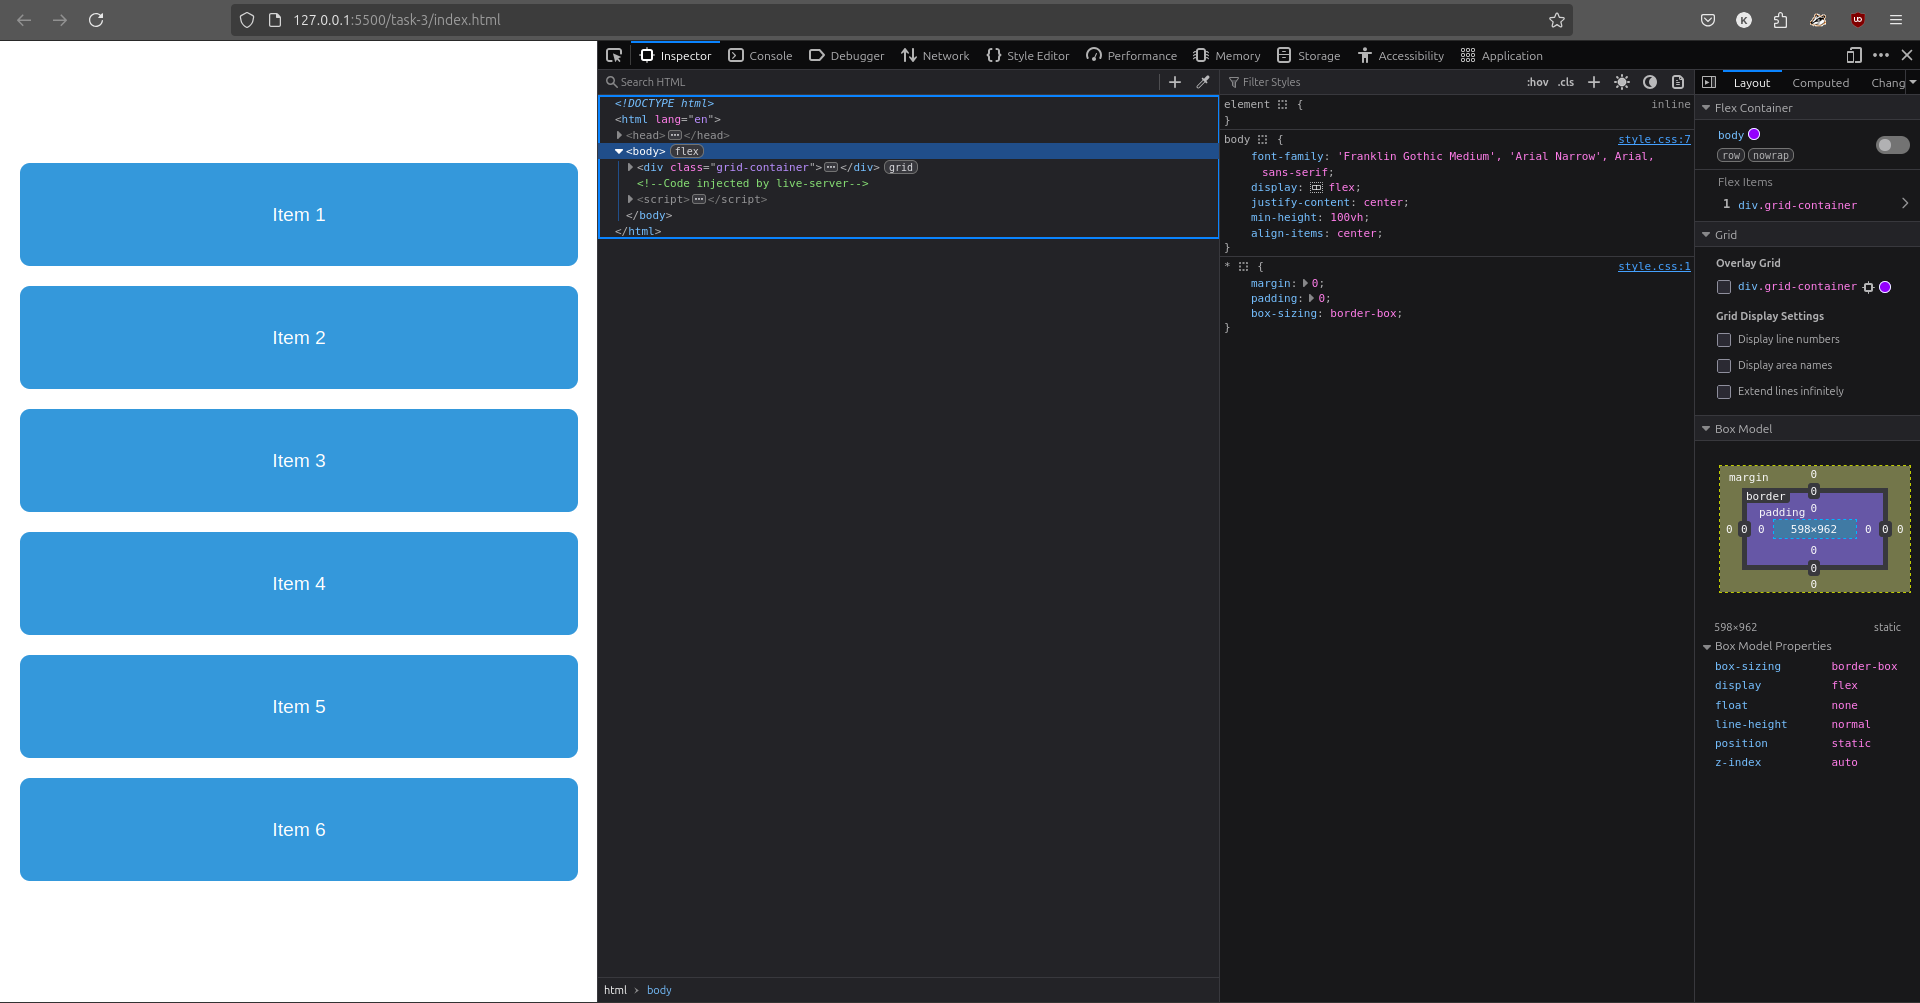
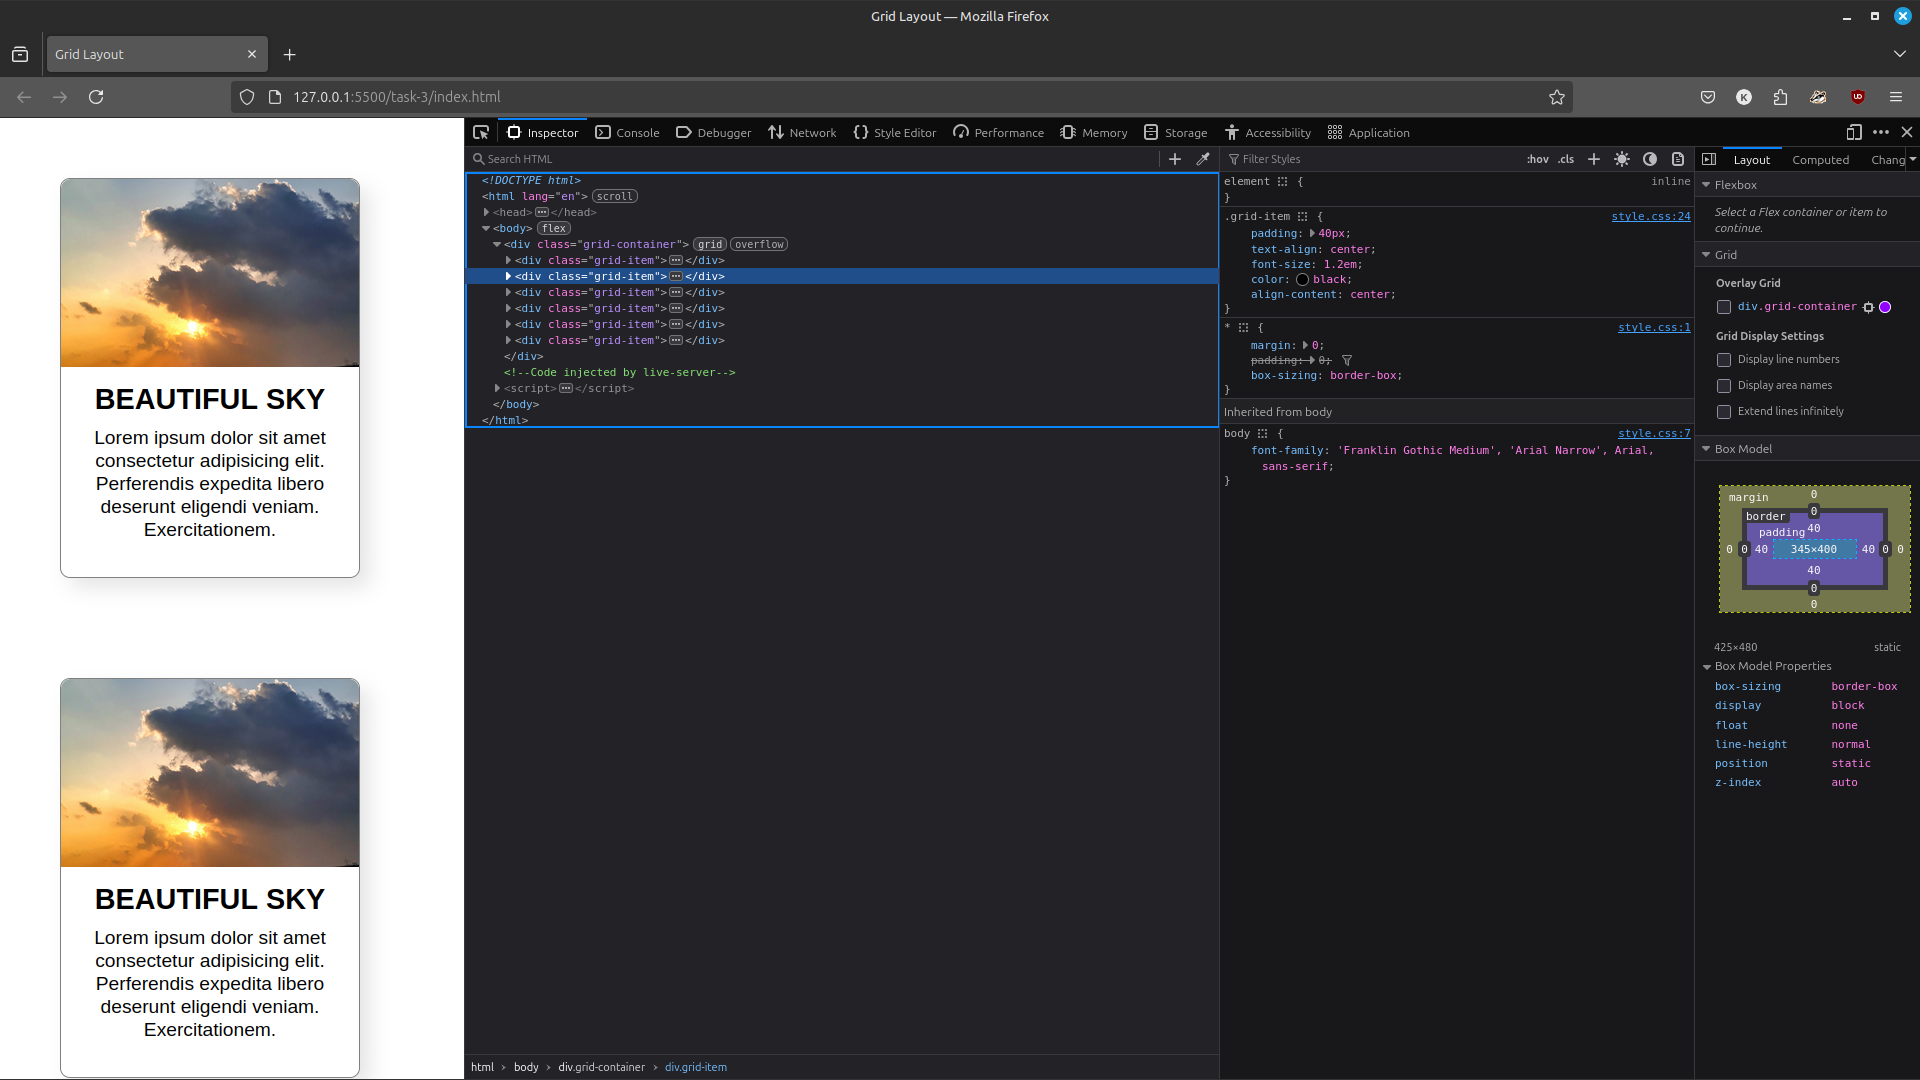
update task 3

diff --git a/task-3/index.html b/task-3/index.html
@@ -7,12 +7,48 @@
 <body>
     
     <div class="grid-container">
-        <div class="grid-item"> Item 1</div>
-        <div class="grid-item"> Item 2</div>
-        <div class="grid-item"> Item 3</div>
-        <div class="grid-item"> Item 4</div>
-        <div class="grid-item"> Item 5</div>
-        <div class="grid-item"> Item 6</div>
+        <div class="grid-item"> 
+            <section class="card-container">
+                <img src="./images/sky.jpg" alt="sky" class="img" />
+                <h2 class="title">BEAUTIFUL SKY</h2>
+                <p class="para">Lorem ipsum dolor sit amet consectetur adipisicing elit. Perferendis expedita libero deserunt eligendi veniam. Exercitationem.</p>
+            </section>
+        </div>
+        <div class="grid-item"> 
+            <section class="card-container">
+                <img src="./images/sky.jpg" alt="sky" class="img" />
+                <h2 class="title">BEAUTIFUL SKY</h2>
+                <p class="para">Lorem ipsum dolor sit amet consectetur adipisicing elit. Perferendis expedita libero deserunt eligendi veniam. Exercitationem.</p>
+            </section>
+        </div>
+        <div class="grid-item"> 
+            <section class="card-container">
+                <img src="./images/sky.jpg" alt="sky" class="img" />
+                <h2 class="title">BEAUTIFUL SKY</h2>
+                <p class="para">Lorem ipsum dolor sit amet consectetur adipisicing elit. Perferendis expedita libero deserunt eligendi veniam. Exercitationem.</p>
+            </section>
+        </div>
+        <div class="grid-item"> 
+            <section class="card-container">
+                <img src="./images/sky.jpg" alt="sky" class="img" />
+                <h2 class="title">BEAUTIFUL SKY</h2>
+                <p class="para">Lorem ipsum dolor sit amet consectetur adipisicing elit. Perferendis expedita libero deserunt eligendi veniam. Exercitationem.</p>
+            </section>
+        </div>
+        <div class="grid-item"> 
+            <section class="card-container">
+                <img src="./images/sky.jpg" alt="sky" class="img" />
+                <h2 class="title">BEAUTIFUL SKY</h2>
+                <p class="para">Lorem ipsum dolor sit amet consectetur adipisicing elit. Perferendis expedita libero deserunt eligendi veniam. Exercitationem.</p>
+            </section>
+        </div>
+        <div class="grid-item"> 
+            <section class="card-container">
+            <img src="./images/sky.jpg" alt="sky" class="img" />
+            <h2 class="title">BEAUTIFUL SKY</h2>
+            <p class="para">Lorem ipsum dolor sit amet consectetur adipisicing elit. Perferendis expedita libero deserunt eligendi veniam. Exercitationem.</p>
+        </section>
+    </div>
 
     </div>
     

diff --git a/task-3/style.css b/task-3/style.css
@@ -18,17 +18,47 @@ body {
     grid-template-columns: 1fr 1fr 1fr;
     gap: 20px;
     padding: 20px;
-    max-width: 900px;
     width: 100%;
 }
 
 .grid-item {
-    background: #3498db;
-    color: white;
     padding: 40px;
     text-align: center;
     font-size: 1.2em;
+    color: black;
+    align-content: center;
+}
+
+
+.card-container {
+    width: 300px;
+    height: 400px;
+    border: 1px solid grey;
     border-radius: 10px;
+    box-shadow:10px 10px 20px rgba(0, 0, 0, 0.1);
+}
+
+.card-container img {
+    width: 100%;
+    height: auto;
+    border-radius: 10px 10px  0 0;
+}
+
+.title {
+    font-size: 1.5em;
+    margin: 10px 0;
+
+}
+
+.para{
+    font-size: 1em;
+
+}
+
+
+.card-container:hover {
+    transform: translateY(-10px);
+    transition: 0.5s;
 }
 
 @media (max-width: 768px) {
